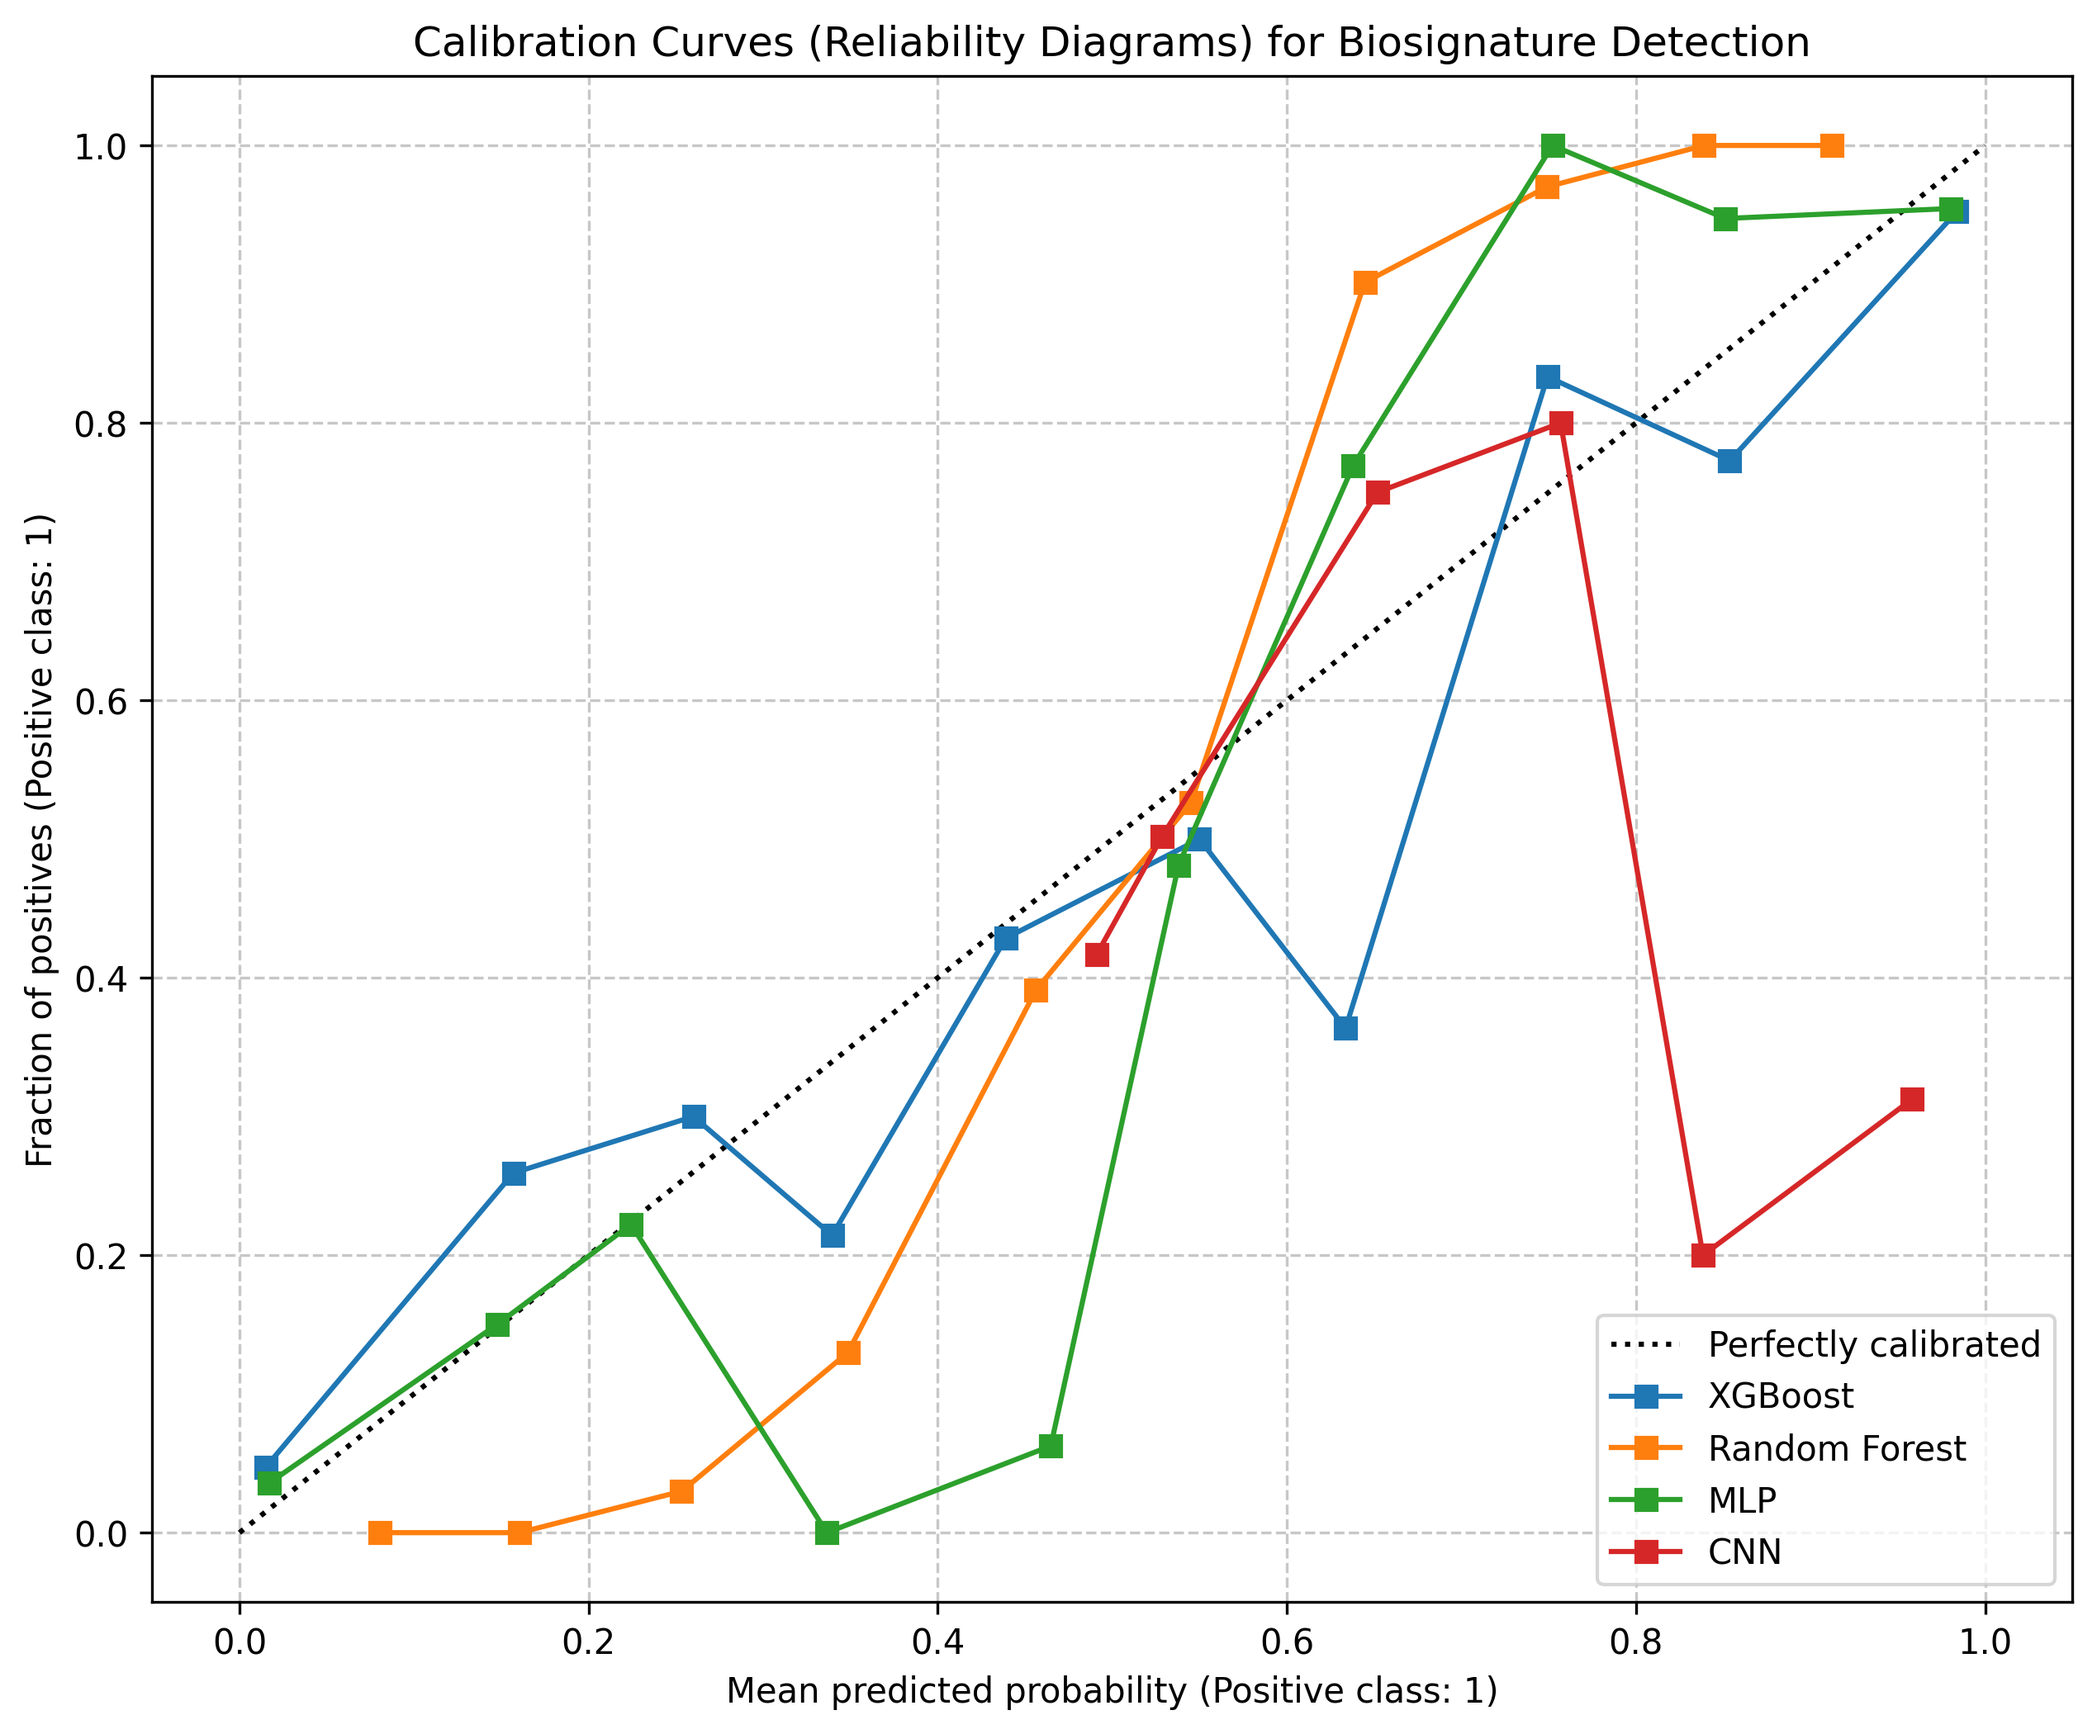
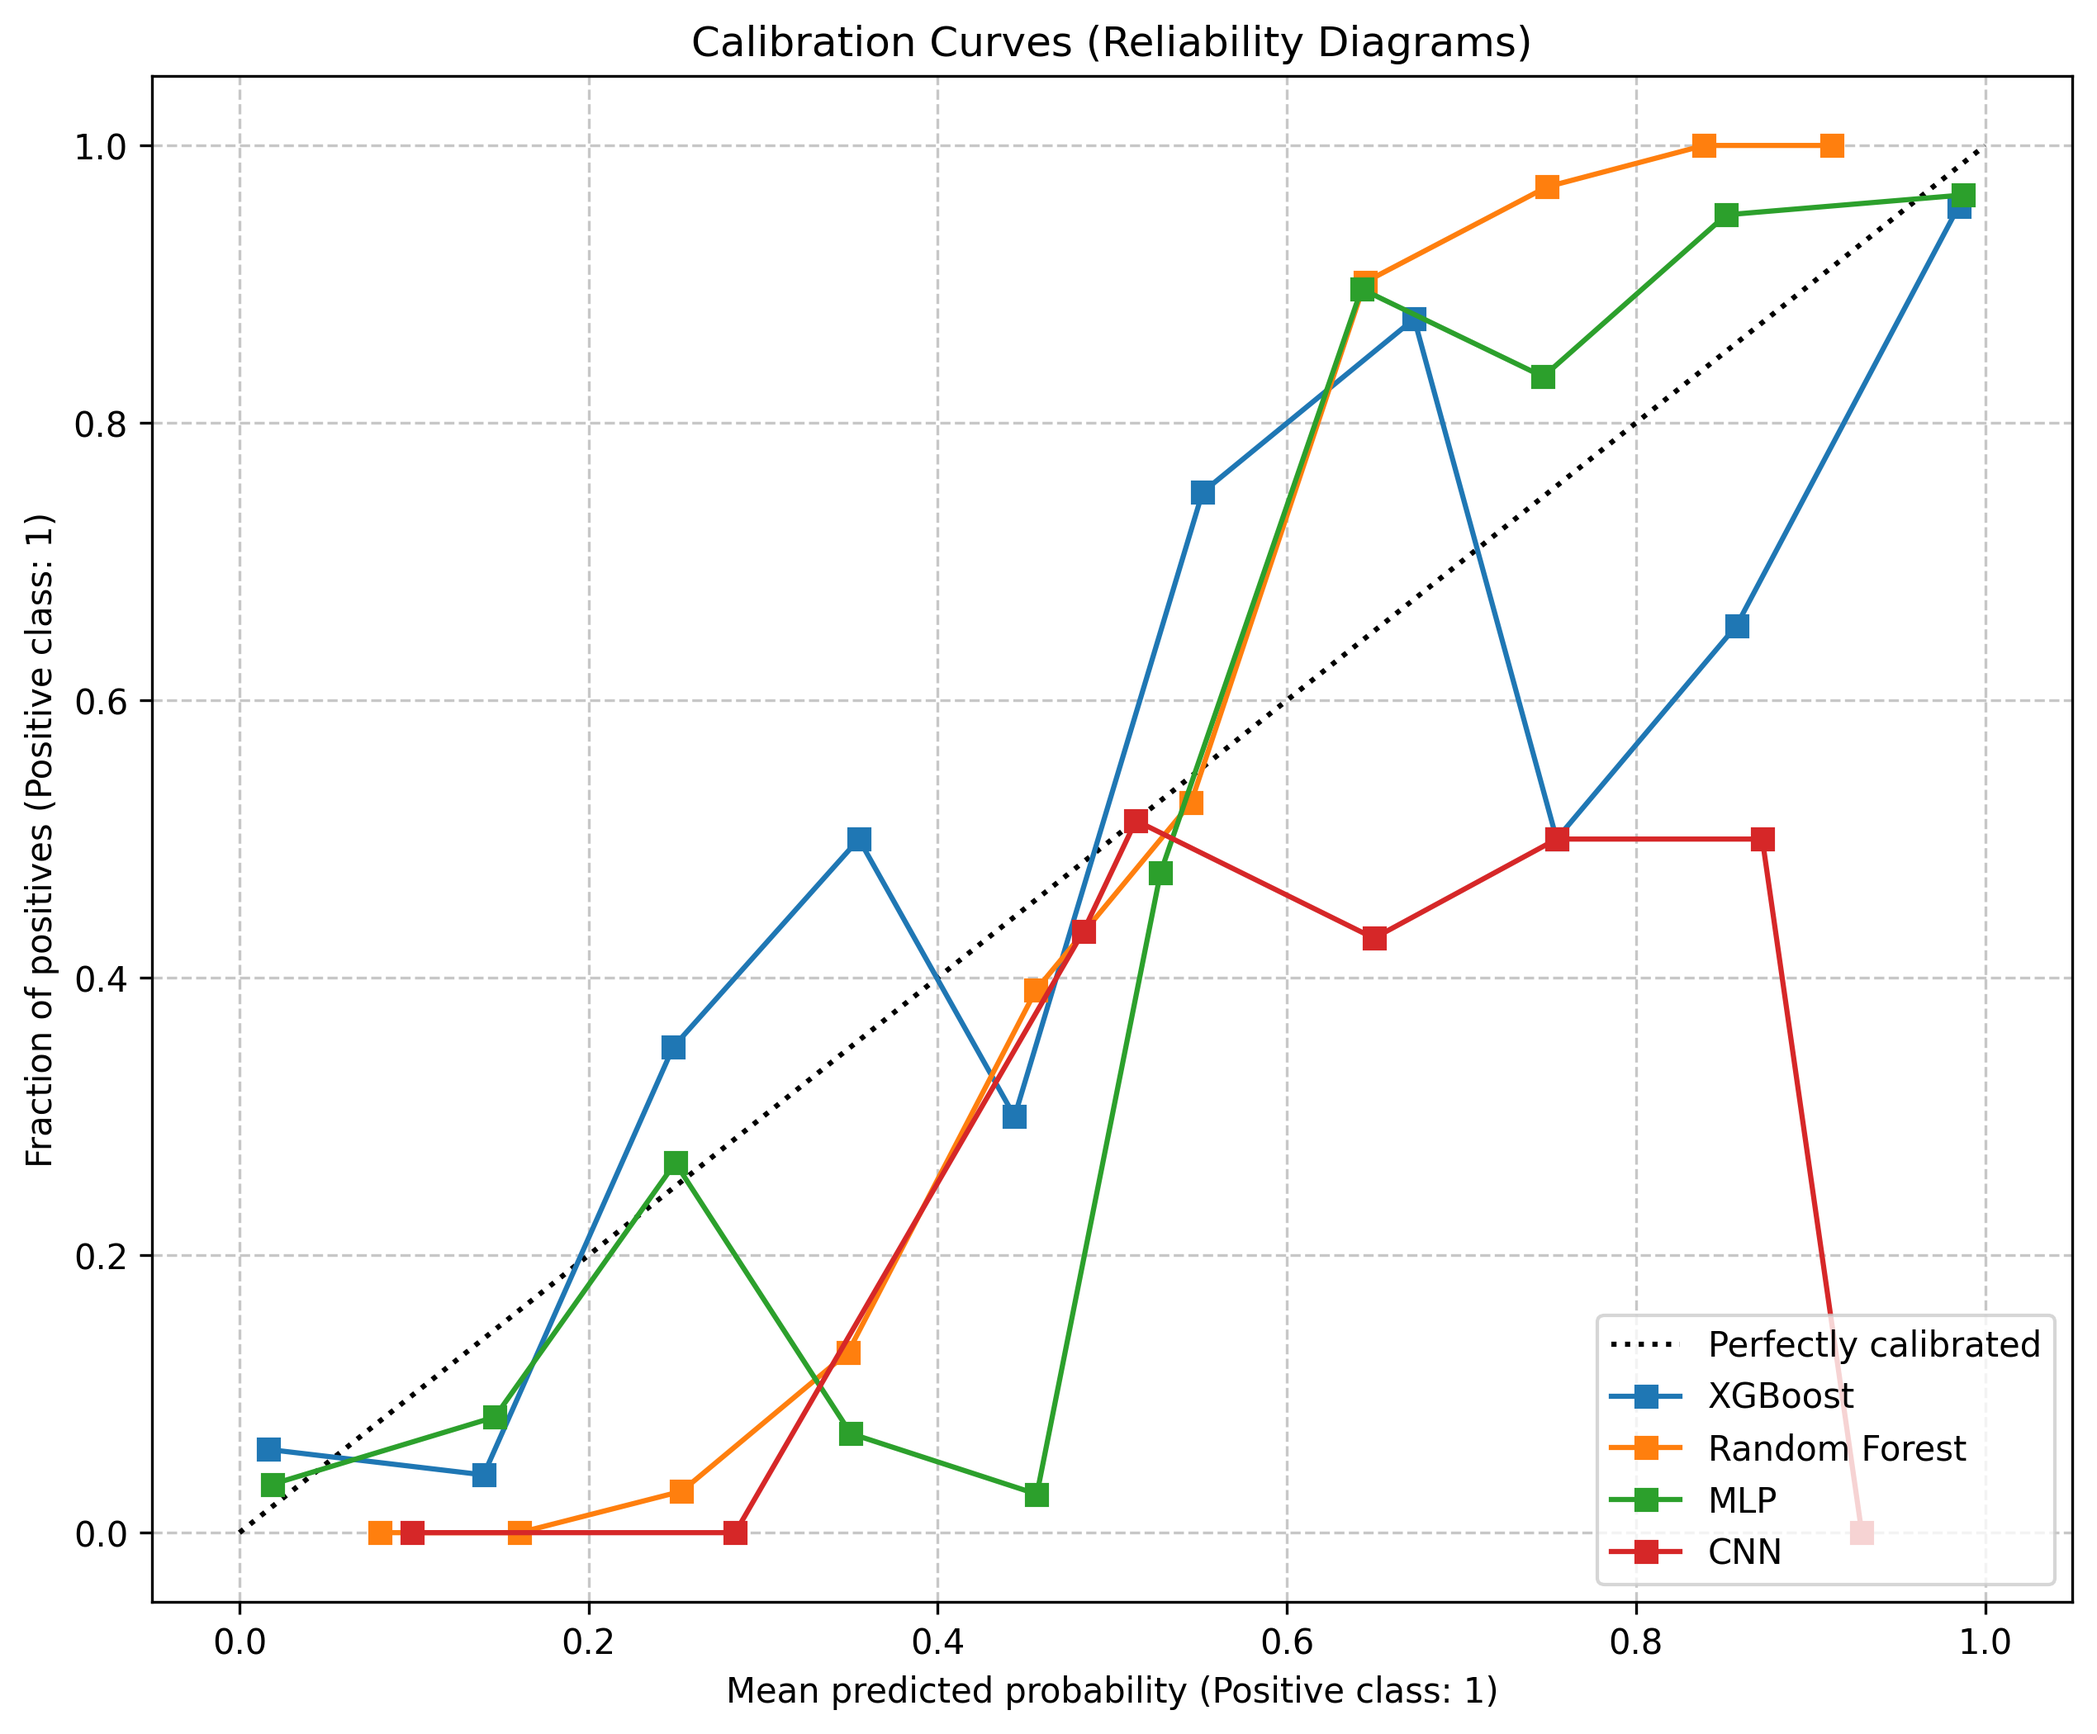
Regenerate calibration figure with corrected title; clean figure manifest
Re-ran plot_calibration_curves.py (title no longer says 'Biosignature
Detection') and refreshed revision/figures/figure 8.png and the tracked
final_results/calibration_curves.png source. Removed the pending-work notes from
figure_manifest.md, leaving a clean figure->source->script mapping.

diff --git a/revision/figure_manifest.md b/revision/figure_manifest.md
@@ -18,11 +18,5 @@ The clean, correctly-numbered figure set is in **`revision/figures/figure 1.png 
 
 ## Notes
 
-- The buggy `plots/figure 5.png` and the stale mis-numbered `final_results/figure 1–6.png` copies have been **deleted** (they were untracked). Use only `revision/figures/`.
-- **Dropped:** the standalone scree plot (`H2_pca_scree_plot_final.png`, from `generate_final_scree_plot.py`) — its explained-variance data is the top panel of Figure 3, so it is redundant.
-- **Figure 8 pending regen:** the title in `plot_calibration_curves.py` has been corrected (no longer says "Biosignature Detection"), but the current `calibration_curves.png` / `figure 8.png` still shows the old title. Re-run `plot_calibration_curves.py` and re-copy to `revision/figures/figure 8.png`. The MLP/CNN curves are stochastic (SEED = 42), so do this in the final coordinated figure pass to keep the curves consistent with the reported Brier scores.
-
-## Other pending items before submission
-- **Acknowledgments** — needs Owen/mentor input on assistance to disclose (editorial, technical, analytical, writing, and any AI tools).
-- **References** — carry over refs 1–42, apply the R2-3 fixes (refs 1/2, 9, 39) and add the new citations (Rackham 2018, Allard 2012, Mugnai 2020, Kempton 2017, Freedman 2008/2014, Lupu 2014, Chubb 2021, Polyansky 2018, Yurchenko 2017/2020, Jolliffe 1982, Grinsztajn 2022, Shwartz-Ziv & Armon 2022).
-- **Tense/person pass** (R2-6) — past tense, third person throughout, at final assembly.
+- The standalone scree plot (`H2_pca_scree_plot_final.png`, from `generate_final_scree_plot.py`) is not used — its explained-variance data is the top panel of Figure 3.
+- Figure 8 is rendered on a single test set (`multirex_spectra_H2_test.parquet`); its MLP and CNN are trained without a fixed TensorFlow seed, so the figure is one stochastic realisation and its own Brier values (XGBoost 0.090, RF 0.130, MLP 0.144, CNN 0.249) differ slightly from the reported five-set means quoted in the caption. The figure illustrates calibration shape; the caption quotes the canonical values.
